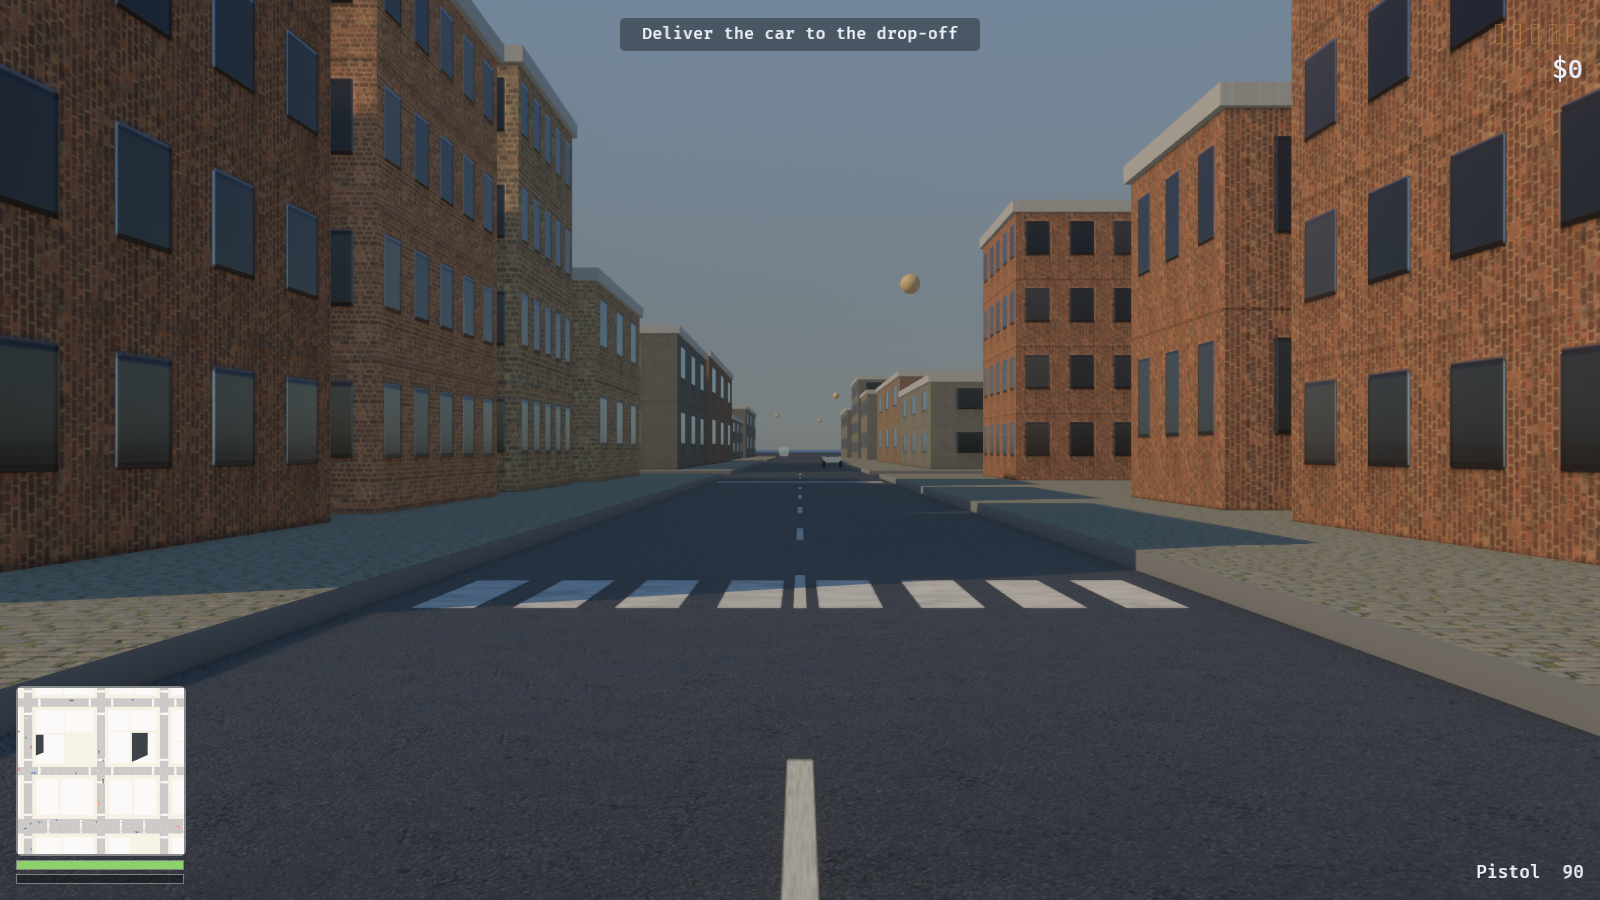
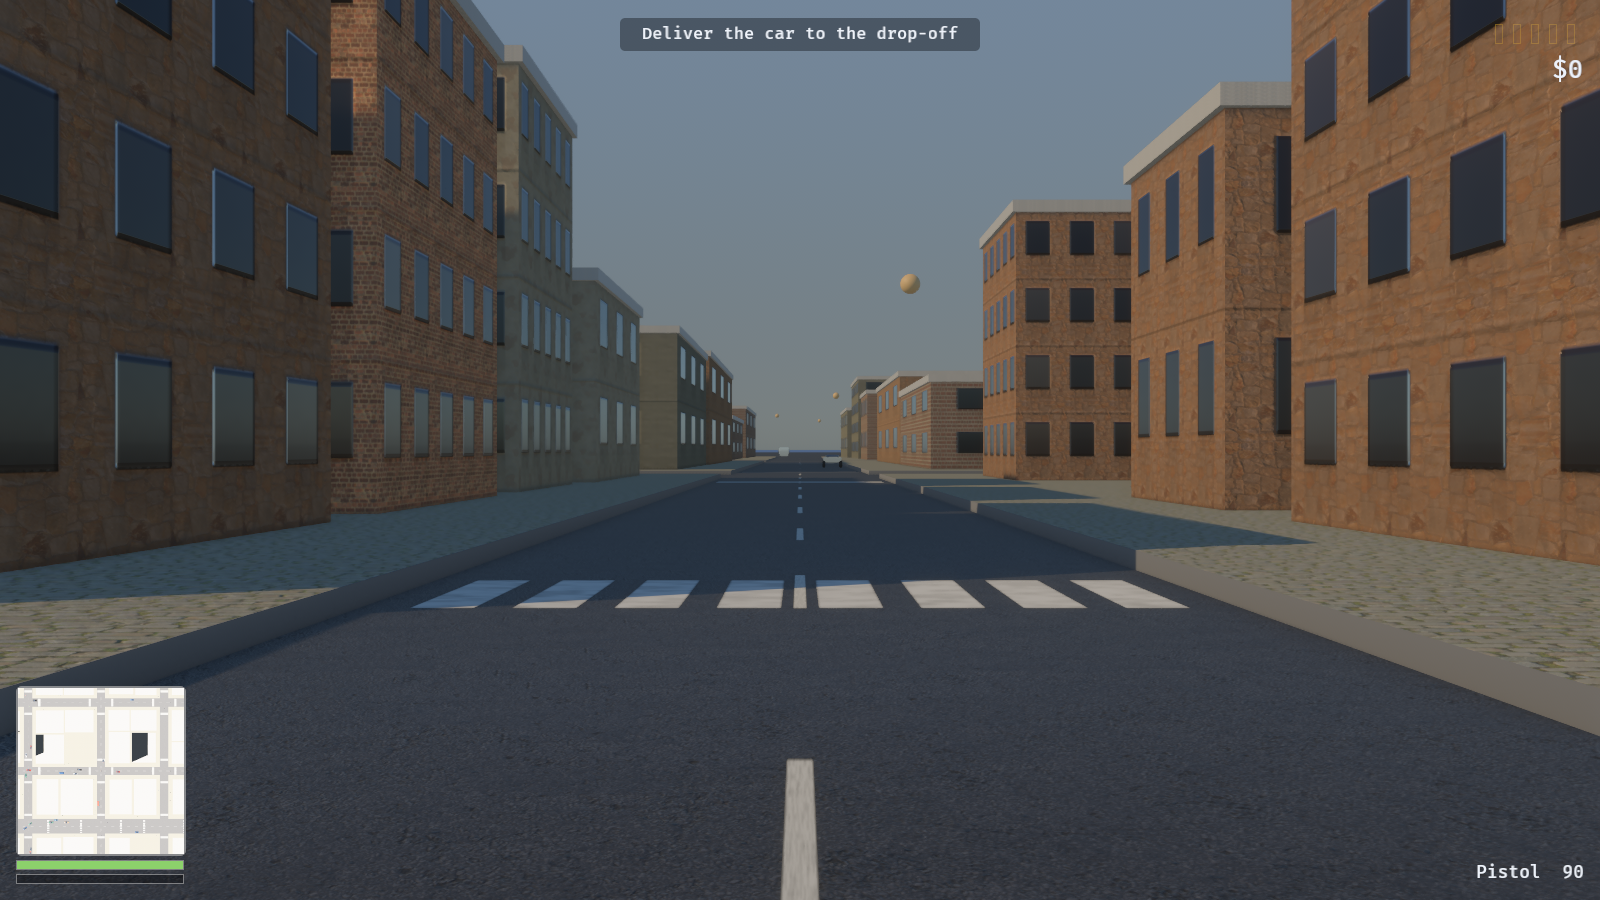
Build each district out of four walls instead of one
Dressing one scanned set four ways got most of the distance, but every
brick building in the city was still the same photograph underneath, and
a facade is the surface the player spends the most time looking at. Four
more CC0 sets — two bricks, a rougher concrete, a painted render — and
each district now names four walls rather than one.

Which four is the point. A residential street is brick, paler brick,
older brick and render; an industrial one is concrete with brick
warehouses in it; downtown is concrete with the odd rendered infill. That
is what a district actually is — not one material, a habit.

The slot each wall lands in already existed, so this costs nothing at
runtime: same material count, same draw calls, and the per-slot dressing
still runs on top, which is what stops the same brick reappearing across
districts.

diff --git a/src/world/facade.rs b/src/world/facade.rs
@@ -80,24 +80,59 @@ impl Plugin for FacadePlugin {
     }
 }
 
-/// Which scanned set a district's walls are made of.
-pub fn grain_for(district: super::citygen::District) -> &'static str {
+/// Which scanned set each of a district's four palette slots is built from.
+///
+/// A district is not made of one material — a residential street is brick and
+/// render and the odd painted terrace, and an industrial one is concrete with
+/// brick warehouses in it. Four slots is what the palette already gives, so
+/// four walls per district costs nothing: the materials exist either way.
+pub fn walls_for(district: super::citygen::District) -> [&'static str; 4] {
     use super::citygen::District::*;
     match district {
-        Residential | Midtown => set::BRICK,
-        Downtown | Industrial | Park => set::CONCRETE,
+        Residential => [set::BRICK, set::BRICK_PALE, set::BRICK_OLD, set::PLASTER],
+        Midtown => [
+            set::BRICK_PALE,
+            set::PLASTER,
+            set::CONCRETE_ROUGH,
+            set::BRICK,
+        ],
+        Downtown => [
+            set::CONCRETE,
+            set::CONCRETE_ROUGH,
+            set::PLASTER,
+            set::CONCRETE,
+        ],
+        Industrial => [
+            set::CONCRETE_ROUGH,
+            set::BRICK_OLD,
+            set::CONCRETE,
+            set::BRICK_PALE,
+        ],
+        // Parks have almost nothing standing on them; whatever does is a
+        // pavilion or a substation.
+        Park => [
+            set::CONCRETE,
+            set::CONCRETE_ROUGH,
+            set::BRICK_OLD,
+            set::CONCRETE,
+        ],
     }
+}
+
+/// The wall one palette slot of a district is built from.
+pub fn grain_for(district: super::citygen::District, slot: usize) -> &'static str {
+    let walls = walls_for(district);
+    walls[slot % walls.len()]
 }
 
 /// How the grain is dressed for each of a district's palette slots.
 ///
-/// One scanned set has to furnish a whole district, so the variety has to come
-/// from how it is *used*. Scale is the strongest lever — the same brick at
-/// 1.7m and at 3.0m reads as two different bricks, because what the eye
-/// measures is the course height against the storey — and a quarter turn on
-/// half of them breaks the last of the resemblance. Both are free: they are
-/// numbers in a uniform that already exists, so the city's material count does
-/// not move.
+/// The scans differ per slot too, but dressing them differently on top is what
+/// stops the same brick reappearing across districts. Scale is the strongest
+/// lever — the same brick at 1.7m and at 3.0m reads as two different bricks,
+/// because what the eye measures is the course height against the storey — and
+/// a quarter turn breaks the last of the resemblance. Both are free: numbers in
+/// a uniform that already exists, so the city's material count does not move.
 const DRESS: [(f32, f32, bool); 4] = [
     (1.75, 0.72, false),
     (2.40, 0.62, true),
@@ -114,7 +149,7 @@ impl FacadeGrain {
         district: super::citygen::District,
         palette: usize,
     ) -> Self {
-        let scanned = library.get(grain_for(district));
+        let scanned = library.get(grain_for(district, palette));
         let (tile, strength, swap) = DRESS[palette % DRESS.len()];
         Self {
             settings: FacadeSettings {
@@ -143,12 +178,53 @@ mod tests {
     use super::super::citygen::District;
     use super::*;
 
+    const DISTRICTS: [District; 5] = [
+        District::Downtown,
+        District::Midtown,
+        District::Residential,
+        District::Industrial,
+        District::Park,
+    ];
+
     #[test]
     fn brick_goes_where_people_live_and_concrete_where_they_work() {
-        assert_eq!(grain_for(District::Residential), set::BRICK);
-        assert_eq!(grain_for(District::Midtown), set::BRICK);
-        assert_eq!(grain_for(District::Downtown), set::CONCRETE);
-        assert_eq!(grain_for(District::Industrial), set::CONCRETE);
+        let homes = walls_for(District::Residential);
+        assert!(
+            homes.iter().filter(|w| w.starts_with("Bricks")).count() >= 3,
+            "a residential street should be mostly brick, got {homes:?}"
+        );
+        let towers = walls_for(District::Downtown);
+        assert!(
+            towers.iter().filter(|w| w.starts_with("Concrete")).count() >= 3,
+            "downtown should be mostly concrete, got {towers:?}"
+        );
+    }
+
+    #[test]
+    fn no_district_is_built_from_a_single_wall() {
+        // The whole reason for the extra sets: one material repeated four ways
+        // is exactly what this replaced.
+        for district in DISTRICTS {
+            let walls = walls_for(district);
+            let distinct: std::collections::HashSet<_> = walls.iter().collect();
+            assert!(
+                distinct.len() >= 2,
+                "{district:?} is built from one wall: {walls:?}"
+            );
+        }
+    }
+
+    #[test]
+    fn the_slot_lookup_stays_inside_its_district() {
+        for district in DISTRICTS {
+            let walls = walls_for(district);
+            for slot in 0..8 {
+                assert!(
+                    walls.contains(&grain_for(district, slot)),
+                    "slot {slot} of {district:?} escaped its own district"
+                );
+            }
+        }
     }
 
     #[test]
@@ -178,18 +254,14 @@ mod tests {
     }
 
     #[test]
-    fn every_district_names_a_set_the_fetch_script_knows() {
-        for district in [
-            District::Downtown,
-            District::Midtown,
-            District::Residential,
-            District::Industrial,
-            District::Park,
-        ] {
-            assert!(
-                set::ALL.contains(&grain_for(district)),
-                "{district:?} asks for a set nothing downloads"
-            );
+    fn every_district_names_sets_the_fetch_script_knows() {
+        for district in DISTRICTS {
+            for wall in walls_for(district) {
+                assert!(
+                    set::ALL.contains(&wall),
+                    "{district:?} asks for {wall}, which nothing downloads"
+                );
+            }
         }
     }
 

diff --git a/src/world/material.rs b/src/world/material.rs
@@ -7,7 +7,7 @@
 //!
 //! Three things this module exists to get right:
 //!
-//! * **Missing is not broken.** The download is 131 MB and gitignored, so a
+//! * **Missing is not broken.** The download is 200 MB and gitignored, so a
 //!   fresh clone has none of it. Every lookup returns an `Option`, and the
 //!   caller falls back to the procedural version in [`super::texture`]. The
 //!   game looks worse and runs fine.
@@ -38,12 +38,31 @@ const VARIANT: &str = "2K-JPG";
 pub mod set {
     pub const ROAD: &str = "Asphalt031";
     pub const PAVEMENT: &str = "PavingStones138";
-    pub const CONCRETE: &str = "Concrete034";
-    pub const BRICK: &str = "Bricks097";
     pub const ROOF: &str = "Gravel023";
     pub const GRASS: &str = "Grass005";
 
-    pub const ALL: [&str; 6] = [ROAD, PAVEMENT, CONCRETE, BRICK, ROOF, GRASS];
+    // Walls. Six of them, because one set dressed four ways still leaves every
+    // brick building in the city cut from the same photograph — and a facade
+    // is the surface the player spends the most time looking at.
+    pub const CONCRETE: &str = "Concrete034";
+    pub const CONCRETE_ROUGH: &str = "Concrete046";
+    pub const BRICK: &str = "Bricks097";
+    pub const BRICK_PALE: &str = "Bricks104";
+    pub const BRICK_OLD: &str = "Bricks075A";
+    pub const PLASTER: &str = "PaintedPlaster006";
+
+    pub const ALL: [&str; 10] = [
+        ROAD,
+        PAVEMENT,
+        ROOF,
+        GRASS,
+        CONCRETE,
+        CONCRETE_ROUGH,
+        BRICK,
+        BRICK_PALE,
+        BRICK_OLD,
+        PLASTER,
+    ];
 }
 
 /// One scanned material's maps.

diff --git a/README.md b/README.md
@@ -22,7 +22,7 @@ generator; nothing here is authored by hand.
 ## Running
 
 ```sh
-tools/fetch-materials.sh  # ~131 MB of CC0 textures; optional, see below
+tools/fetch-materials.sh  # ~200 MB of CC0 textures; optional, see below
 cargo run                 # first build takes a few minutes; then ~2-10s
 cargo run --release       # smoother, slower to compile
 cargo run --features dev  # dynamic linking, fastest iteration
@@ -118,7 +118,7 @@ cargo run -- --screenshot shots/map.png    --follow --map
 
 ## Textures
 
-Surfaces come from photogrammetry: `tools/fetch-materials.sh` pulls six scanned
+Surfaces come from photogrammetry: `tools/fetch-materials.sh` pulls ten scanned
 PBR sets from [ambientCG](https://ambientcg.com), all released under CC0, into
 `assets/materials/`. `world::material` loads them — colour through sRGB, the
 rest linear — builds each one a mip chain on the CPU, because Bevy has no
@@ -150,12 +150,13 @@ a two-storey house and a forty-storey tower share one material. Anchoring it to
 the building instead would need a size bucket per material and take the city
 from twenty-odd draw calls to several hundred.
 
-One set has to furnish a whole district, so the variety comes from how it is
-used: each of a district's four palette slots dresses the grain at a different
-scale, and turns half of them a quarter turn. Scale is the strongest lever,
-because what the eye measures is the course height against the storey. Both are
-numbers in a uniform that already exists, so the city's material count does not
-move.
+Variety comes from combination rather than from count. Each district names four
+walls — a residential street is brick, brick, older brick and render; an
+industrial one is concrete with brick warehouses in it — and each is then
+dressed at a different scale, with half turned a quarter turn. Scale is the
+strongest lever, because what the eye measures is the course height against the
+storey. All of it lands in a material that had to exist anyway, so the city's
+material count does not move.
 
 The shader picks one projection rather than blending three. Every wall in this
 city stands on the street grid, so the dominant axis of the normal *is* the
@@ -217,9 +218,8 @@ pursuit, and everything but the player's own car is positioned in the world.
   Scanning them needs a custom material with a detail UV; see above.
 - Bodywork has no crease lines. The cross-sections give a shoulder that turns
   quickly, which reads as one, but nothing in the mesh is a hard edge.
-- One scanned set per surface. A district's four palette slots dress it at
-  different scales and orientations, which is most of the way there, but every
-  brick wall in the city is still the same photograph underneath.
+- Six wall sets across five districts, so a long enough walk repeats. What
+  breaks the repeat is combination, not count — see above.
 - Damage does not change how a car collides: dents move metal, never the box
   the physics uses. Rebuilding a convex hull per impact is the alternative.
 
